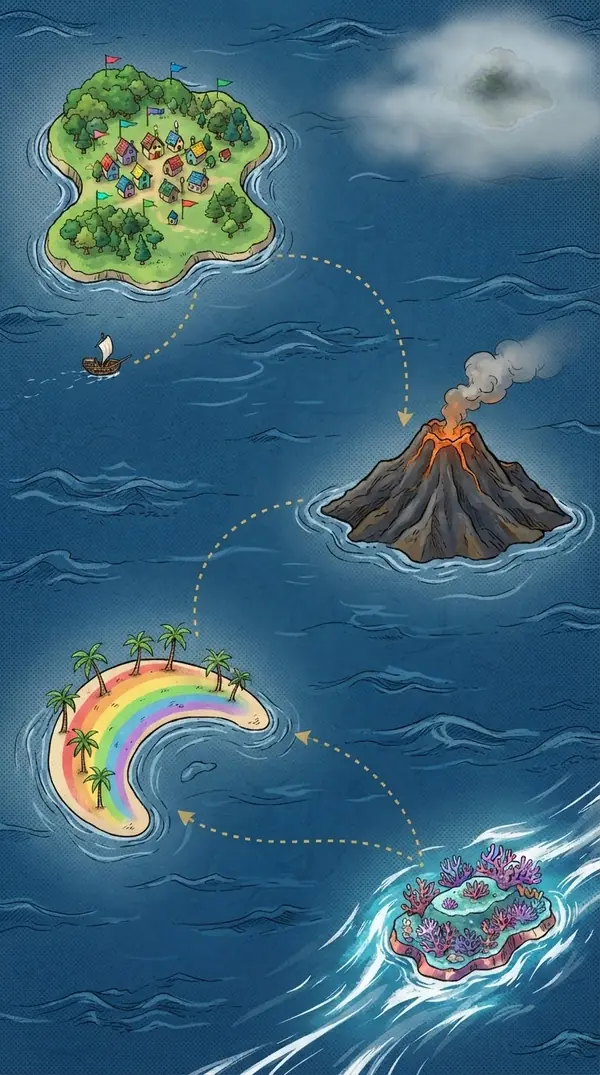
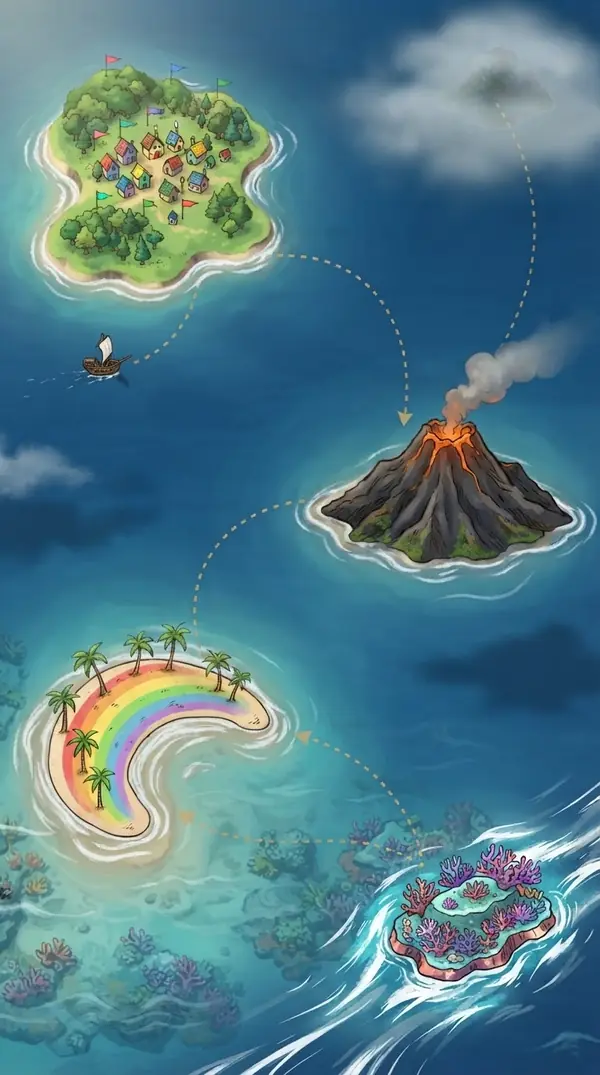
feat(kai): Kai's voyage — nouvelle carte, passeport à tampons, Kai qui plante son drapeau
Images Gemini du PO (21/11). Tampon d'une île au 1er port certifié ; tampon « Great voyage » quand les 4 îles sont tamponnées.

Claude-Session: https://claude.ai/code/session_01HCzTLYSbX18WdHngqGddwG

diff --git a/js/app-voyage.js b/js/app-voyage.js
@@ -14,10 +14,10 @@
    Script classique, chargé après app-picks.js (réutilise t3Ok, t3Blank, headSvg, la page du quiz). */
 "use strict";
 const VY_ISL = [
-    { k: "nouns", name: "Thing Island", fam: "Nouns", one: "noun", n: "#a3e635", per: 4 },
-    { k: "verbs", name: "Action Volcano", fam: "Verbs", one: "verb", n: "#fb923c", per: 3 },
-    { k: "adjectives", name: "Colour Cove", fam: "Adjectives", one: "adjective", n: "#f472b6", per: 2 },
-    { k: "adverbs", name: "Swift Reef", fam: "Adverbs", one: "adverb", n: "#38bdf8", per: 1 }];
+    { k: "nouns", name: "Thing Island", fam: "Nouns", one: "noun", n: "#a3e635", per: 4, st: "vert" },
+    { k: "verbs", name: "Action Volcano", fam: "Verbs", one: "verb", n: "#fb923c", per: 3, st: "volcan" },
+    { k: "adjectives", name: "Colour Cove", fam: "Adjectives", one: "adjective", n: "#f472b6", per: 2, st: "arc" },
+    { k: "adverbs", name: "Swift Reef", fam: "Adverbs", one: "adverb", n: "#38bdf8", per: 1, st: "recif" }];
 const VY_SIZE = 10, VY_RUNS = 2, VY_STORM = 21;
 let VYV = { i: null, h: null }, VY = null;
 const vyIsl = k => VY_ISL.find(x => x.k === k);
@@ -155,6 +155,16 @@ function vyCard() {
 <p>Kai's boat: <b>${VY_BOATS[b].name}</b></p>${nx ? `<div class="pbar"><i style="width:${Math.round(100 * (n - VY_BOATS[b].min) / (nx.min - VY_BOATS[b].min))}%"></i></div><small>${nx.min - n} more for a ${nx.name}</small>` : "<small>The biggest ship of the archipelago!</small>"}</div></div>
 <div class="vyfam">${per}</div></div>`;
 }
+/* le passeport (images Gemini du PO, 21/11) : le tampon d'une île au 1er port certifié sur cette île ;
+   le tampon « voyage » quand les 4 îles sont tamponnées */
+const vyIslDone = k => vyHarbours(k).filter(h => vyDone(vyHkey(k, h.n))).length;
+const vyStamps = () => VY_ISL.filter(I => vyIslDone(I.k) > 0).length;
+function vyPassport() {
+    const all = vyStamps() === VY_ISL.length;
+    const one = (img, name, got, sub) => `<li class="${got ? "got" : ""}"><span class="vystamp">${got ? `<img src="img/voyage-tampon-${img}.webp" alt="">` : ""}</span><b>${name}</b><small>${sub}</small></li>`;
+    return `<div class="vypass"><div class="vypassh"><span>My passport</span><span>${vyStamps() + (all ? 1 : 0)} / ${VY_ISL.length + 1} stamps</span></div>
+<ul>${VY_ISL.map(I => { const c = vyIslDone(I.k); return one(I.st, I.name, c > 0, c ? `${c} harbour${c > 1 ? "s" : ""}` : "1 harbour to get it"); }).join("")}${one("voyage", "Great voyage", all, all ? "All the islands!" : "Every island stamped")}</ul></div>`;
+}
 function renderVoyage() {
     const B = document.getElementById("vybody");
     if (!B)
@@ -170,6 +180,7 @@ function renderVoyage() {
     B.innerHTML = `<div class="qhead">${headSvg(say, n ? "smile" : "head")}</div>
 ${vyCard()}
 ${nx.key ? `<button class="vygo" type="button" data-vyh="${nx.key}">${nx.storm ? "Storm! " : "Next: "}${esc(vyLabel(nx.key))}${GOSVG}</button>` : ""}
+${vyPassport()}
 <div class="vymap"><img src="img/voyage-carte.webp" alt="Map of the archipelago" loading="lazy">
 ${VY_ISL.map((I, j) => { const H = vyHarbours(I.k), c = H.filter(h => vyDone(vyHkey(I.k, h.n))).length; return `<button class="vyisl i${j}" type="button" data-vyi="${I.k}" style="--n:${I.n}"><b>${I.name}</b><small>${I.fam} · ${c}/${H.length}</small></button>`; }).join("")}
 <span class="vyisl i4 lock">${vyIcon.lock}<small>Secret island</small></span></div>`;
@@ -303,14 +314,17 @@ function vyEnd() {
     XMODE = "vyend";
     document.getElementById("qn").textContent = "";
     QW().innerHTML = `<p class="qpart">${esc(vyLabel(VY.key))} · Results</p><div class="qhead">${headSvg(say, perfect ? "smile" : "head")}</div>
-${out === "cert" ? `<div class="vycert">${vyIcon.flag}<b>Harbour ${hn} · ${esc(vyIsl(k).name)}</b><span>Certified · ${vyCount()} harbour${vyCount() === 1 ? "" : "s"} on your voyage</span></div>` : ""}
+${out === "cert" ? `<div class="vycert"><img src="img/voyage-drapeau.webp" alt="Kai plants his flag on the pier"><b>Harbour ${hn} · ${esc(vyIsl(k).name)}</b><span>Certified · ${vyCount()} harbour${vyCount() === 1 ? "" : "s"} on your voyage</span></div>` : ""}
 <div class="scores one"><div class="sc${perfect ? " ok" : ""}"><i>${esc(vyIsl(k).name)}</i><b>${P}%</b><small>${n} of ${N} words</small></div></div>
 <ul class="recap">${VY.items.map((it, j) => `<li><span class="m ${VY.res[j] ? "ok" : "ko"}">${VY.res[j] ? CHECK : CROSS}</span><b>${esc(t3Ans(it))}</b><i>${esc(it.f)}</i></li>`).join("")}</ul>
 <div class="endbtns"><button class="listen" id="vyagain">Try again</button><button class="ghost" id="vyback">Harbour ${hn}</button></div>`;
     if (out === "cert" || out === "storm")   /* la fenêtre « Congrats! » de Kai, une fois qu'il a fini de parler */
         try {
             const c = vyCount(), b = vyBoat(c);
-            afterSpeech(() => out === "cert" && b > vyBoat(c - 1) ? kaiCongrats(`New boat: a ${VY_BOATS[b].name}!`, `Harbour ${hn} certified: <b>${c}</b> harbours on your voyage. Kai sails on a ${VY_BOATS[b].name} now!`, `Congrats! Kai has a new boat: a ${VY_BOATS[b].name}!`)
+            const stamp = out === "cert" && vyIslDone(k) === 1, great = stamp && vyStamps() === VY_ISL.length;   /* 1er port de l'île : nouveau tampon */
+            afterSpeech(() => great ? kaiCongrats("Great voyage!", `Every island of the archipelago has its stamp in your passport!`, "Congrats! You've got the great voyage stamp!")
+                : stamp && !(b > vyBoat(c - 1)) ? kaiCongrats("New stamp!", `${esc(vyIsl(k).name)} is in your passport now. Harbour ${hn} is certified!`, `Congrats! A new stamp for ${vyIsl(k).name}!`)
+                : out === "cert" && b > vyBoat(c - 1) ? kaiCongrats(`New boat: a ${VY_BOATS[b].name}!`, `Harbour ${hn} certified: <b>${c}</b> harbours on your voyage. Kai sails on a ${VY_BOATS[b].name} now!`, `Congrats! Kai has a new boat: a ${VY_BOATS[b].name}!`)
                 : out === "cert" ? kaiCongrats(`Harbour ${hn} certified!`, `${esc(vyIsl(k).name)}: your flag is planted. <b>${vyWords()}</b> words learnt on your voyage.`, `Congrats! Harbour ${hn} is certified!`)
                 : kaiCongrats("Storm beaten!", `Harbour ${hn} keeps its lighthouse on.`, "Congrats! You beat the storm!"));
         }

diff --git a/css/app.css b/css/app.css
@@ -1544,7 +1544,7 @@ html.ts-xl .page.gm #toLearn{grid-template-columns:64px minmax(0,1fr) 44px}
 .vyisl{--n:#22d3ee;position:absolute;display:flex;flex-direction:column;align-items:flex-start;gap:1px;min-height:44px;padding:5px 10px;box-sizing:border-box;border-radius:12px;border:2px solid var(--n);background:rgba(18,17,31,.88);box-shadow:0 0 12px -3px var(--n);color:#fff;cursor:pointer;text-align:left}
 .vyisl b{font:800 15px/1.15 var(--claude)}.vyisl small{font:600 12px var(--claude);color:#d9dbe8}
 .vyisl:focus-visible{outline:3px solid #fff;outline-offset:2px}
-.vyisl.i0{left:3%;top:25%}.vyisl.i1{right:3%;top:52%}.vyisl.i2{left:3%;top:77%}.vyisl.i3{right:3%;top:89%}
+.vyisl.i0{left:3%;top:27.5%}.vyisl.i1{right:3%;top:53.5%}.vyisl.i2{left:3%;top:80.5%}.vyisl.i3{right:3%;top:91.3%}
 .vyisl.i4{right:5%;top:5%;flex-direction:row;align-items:center;gap:6px;min-height:0;border-style:dashed;border-color:#94a3b8;box-shadow:none;cursor:default}
 .vyisl.i4 svg{width:16px;height:16px;color:#d9dbe8}
 .vyhead{--n:#a3e635;display:flex;align-items:center;gap:12px;padding:10px 12px;border-radius:20px;border:2px solid var(--n);background:#1e1c33;box-shadow:0 0 18px -4px var(--n)}
@@ -1578,11 +1578,22 @@ html.ts-xl .page.gm #toLearn{grid-template-columns:64px minmax(0,1fr) 44px}
 .vywords li b{font:700 17px var(--claude);color:#fff}.vywords li i{font:500 14px var(--claude);font-style:normal;color:#c7c9d9;text-align:right}
 .vyrule{margin:0;text-align:center;font:500 14px/1.4 var(--claude);color:#c7c9d9}
 .vyhint{margin:6px 0 0;font:600 14px var(--claude);color:#5b5f7a}.vyhint b{color:#0b7f89}
-.vycert{display:flex;flex-direction:column;align-items:center;gap:4px;margin:0 auto 10px;padding:12px 20px;border-radius:18px;border:3px solid #15803d;background:#dcfce7;color:#14532d;text-align:center}
-.vycert svg{width:34px;height:34px;color:#15803d}.vycert b{font:800 18px var(--claude)}.vycert span{font:600 14px var(--claude)}
+.vycert{display:flex;flex-direction:column;align-items:center;gap:4px;max-width:340px;margin:0 auto 10px;padding:10px 10px 12px;border-radius:18px;border:3px solid #15803d;background:#dcfce7;color:#14532d;text-align:center}
+.vycert img{display:block;width:100%;height:auto;aspect-ratio:1;border-radius:12px;margin-bottom:4px}.vycert b{font:800 18px var(--claude)}.vycert span{font:600 14px var(--claude)}
 .vyboat{display:flex;align-items:center;gap:12px}
 .vyboat img{width:120px;height:81px;object-fit:cover;border-radius:12px;border:2px solid #0b0a16;flex:none}
 .vyboat>div{flex:1;min-width:0;display:flex;flex-direction:column;gap:4px}
 .vyboat p{margin:0;font:500 14px var(--claude);color:#c7c9d9}.vyboat p b{color:#fff;text-transform:capitalize}
 .vyboat small{font:600 12px var(--claude);color:#c7c9d9}
 .vyscene{display:block;width:100%;height:auto;aspect-ratio:4/3;object-fit:cover;border-radius:18px;border:2px solid #3a3760}
+/* le passeport : une page de papier crème, 5 tampons */
+.vypass{padding:12px 14px 14px;border-radius:20px;background:#f6f1e3;color:#3b2f1e;border:2px solid #d8c9a3;box-shadow:0 0 0 1px rgba(0,0,0,.45)}
+.vypassh{display:flex;justify-content:space-between;align-items:baseline;font:600 13px var(--claude);color:#6b5a3a}
+.vypassh span:first-child{font-weight:800;letter-spacing:1.2px;text-transform:uppercase;color:#3b2f1e}
+.vypass ul{list-style:none;margin:10px 0 0;padding:0;display:grid;grid-template-columns:repeat(5,minmax(0,1fr));gap:6px}
+.vypass li{display:flex;flex-direction:column;align-items:center;text-align:center;gap:3px}
+.vystamp{width:100%;max-width:64px;aspect-ratio:1;border-radius:50%;border:2px dashed #c4b28a;display:block;overflow:hidden}
+.vystamp img{display:block;width:100%;height:100%;transform:rotate(-8deg);mix-blend-mode:multiply}
+.vypass li.got .vystamp{border:0}
+.vypass li:nth-child(even).got .vystamp img{transform:rotate(7deg)}
+.vypass b{font:700 11px/1.15 var(--claude);color:#3b2f1e}.vypass small{font:600 10px/1.15 var(--claude);color:#6b5a3a}

diff --git a/docs/backlog/2026-11-20-kai-voyage.md b/docs/backlog/2026-11-20-kai-voyage.md
@@ -28,9 +28,13 @@
 - L'ordre de fréquence des noms, adjectifs et adverbes est une première version : il faudra le faire relire comme un contenu
   pédagogique (charte : relecture par Opus).
 
+## Images (Gemini, PO 20-21/11)
+- Tuile du menu, carte de l'archipel (v2, plus réaliste), 4 bateaux (radeau 0, barque 5, voilier 15, trois-mâts 30 ports
+  certifiés), 3 scènes de port (brouillard : pas encore certifié ; soleil : certifié ; tempête), Kai qui plante son drapeau
+  (écran de certification), 5 tampons du passeport (un par île au 1er port certifié de l'île, « Great voyage » quand les
+  4 îles sont tamponnées). Sources dans le dossier de travail de la session ; recadrées et converties en webp dans `img/`.
+
 ## Reste à faire
-- Images Gemini : la carte définitive (plus réaliste, haut de l'image libre), le bateau qui s'améliore, les états d'un port,
-  les tampons du passeport. Les positions des noms des îles sur la carte (`.vyisl.i0` à `.i4` dans `css/app.css`) seront
-  à ajuster sur la nouvelle carte.
-- Le passeport (un tampon par île terminée) et le bateau de Kai qui s'améliore.
+- Le système de récompense pour pousser au 2e run (coffres, pièces, marée) : proposé au PO le 20/11, en attente de sa réponse.
+- Les missions spéciales débloquées par les récompenses (à définir par le PO) ; l'île secrète.
 - Un rappel de Kai sur la carte Kai du menu, et une ligne sur la carte This week.
